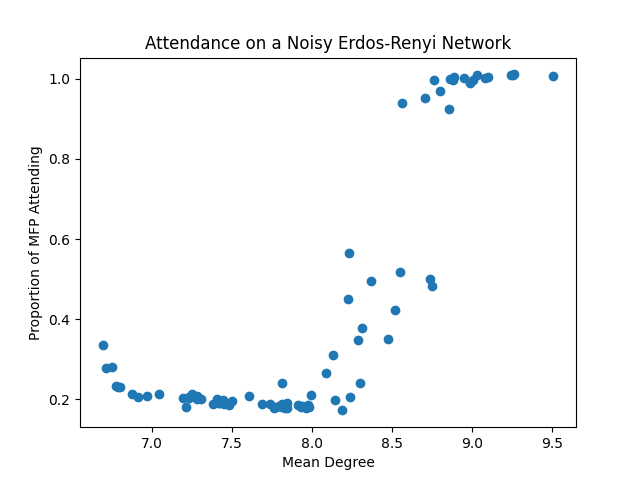
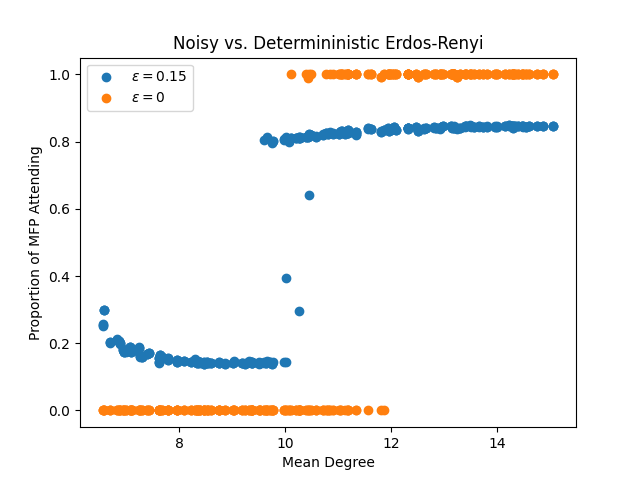
fix noise bug and track degrees

diff --git a/scripts/noise.py b/scripts/noise.py
@@ -7,37 +7,27 @@ from chung_lu import generate_chung_lu, truncated_power_law
 
 
 def simulate_with_noise(A, title, fname):
-    n_trials = 5
-    epsilons = np.arange(0, 0.2, 0.01)
-    epsilons = np.hstack([epsilons] * n_trials)
-    epsilons.sort()
+    epsilons = np.arange(0, 0.25, 0.01)
+    weekly = []
 
-    cnts_mean = []
-    cnts_std = []
     batch_size = 20
 
     for eps in epsilons:
         cnts = run_simulation_batch(A, n_iter, eps, M, minfriends, minbad, batch_size, rng)
         mfp = cnts.maximal_fixed_point.sum()
 
-        weekly = (cnts.sum(axis=0)[:batch_size]/(950*mfp))
-        cnts_std.append(weekly.std())
-        cnts_mean.append(weekly.mean())
-            
-    plt.figure()
-    plt.scatter(epsilons, cnts_mean)
-    plt.xlabel("$\epsilon$")
-    plt.ylabel("Proportion of MFP Attending")
-    plt.title(title.format("Mean"))
-    plt.savefig(fname.format("mean"))
-    
-    plt.figure()
-    plt.scatter(epsilons, cnts_std)
-    plt.xlabel("$\epsilon$")
-    plt.ylabel("Proportion of MFP Attending")
-    plt.title(title.format("STD"))
-    plt.savefig(fname.format("std"))
+        weekly.append((cnts.sum(axis=0)[:batch_size]/(950*mfp)))
 
+    w = np.vstack(weekly)
+    plt.figure()
+    plt.errorbar(epsilons, w.mean(axis=1), w.std(axis=1), fmt="P")
+    plt.xlabel("$\epsilon$")
+    plt.ylabel("Proportion of MFP Attending")
+    plt.title(title)
+    plt.tight_layout()
+    plt.savefig(fname)
+
+    
 if __name__ == "__main__":
     rng = np.random.default_rng(2357111)
 
@@ -49,39 +39,45 @@ if __name__ == "__main__":
     minfriends = 4
     minbad = 4
     n_trials = 5
-    batch_size = 30
+    batch_size = 3
 
     print("Simulating attendance vs. degree with noise")
     eps = 0.15
     N = size
 
-    probs = np.arange(0.02, 0.031, 0.0005)
+    probs = np.arange(0.02, 0.05, 0.001)
     probs = np.hstack([probs] * n_trials)
     probs.sort()
 
     attendance = []
     mean_deg = []
+    nonoise = []
 
     for p in probs:
         G = nx.gnp_random_graph(N, p, seed=rng.choice(1000))
         A = nx.convert_matrix.to_numpy_array(G)
-        mean_deg.append(A.sum(axis=0).mean())
-        cnts = run_simulation_batch(A, n_iter, eps, M, minfriends, minbad, batch_size, rng)
+        mean_deg.extend([A.sum(axis=0).mean()] * batch_size)
         
+        cnts = run_simulation_batch(A, n_iter, eps, M, minfriends, minbad, batch_size, rng)
         mfp = cnts.maximal_fixed_point.sum()
-
         weekly = (cnts.sum(axis=0)[:batch_size]/(950 * mfp))
-        attendance.append(weekly.mean())
+        attendance.extend(weekly.tolist())
+        
+        cnts = run_simulation_batch(A, n_iter, 0, M, minfriends, minbad, batch_size, rng)
+        mfp = cnts.maximal_fixed_point.sum()
+        weekly = (cnts.sum(axis=0)[:batch_size]/(950 * mfp))
+        nonoise.extend(weekly.tolist())
 
     attendance = np.array(attendance)
     mean_deg = np.array(mean_deg)
+    nonoise = np.array(nonoise)
 
-    mask = np.where(attendance < 2)[0]
-
-    plt.scatter(mean_deg[mask], attendance[mask])
+    plt.scatter(mean_deg, attendance)
+    plt.scatter(mean_deg, nonoise)
+    plt.legend(["$\epsilon=0.15$", "$\epsilon=0$"])
     plt.xlabel("Mean Degree")
     plt.ylabel("Proportion of MFP Attending")
-    plt.title("Attendance on a Noisy Erdos-Renyi Network")
+    plt.title("Noisy vs. Determininistic Erdos-Renyi")
     plt.savefig("images/mean_degree_v_noise.png")
 
     print("Now varying epsilon")
@@ -92,7 +88,7 @@ if __name__ == "__main__":
     A = generate_chung_lu(k, rng)
     print(f"Mean degree: {A.sum(axis=0).mean()}")
 
-    simulate_with_noise(A, "Chung-Lu Model: {} Weekly Attendance", "images/noisy_chung_lu_{}.png")
+    simulate_with_noise(A, "Noisy Chung-Lu Model", "images/noisy_chung_lu.png")
 
 
     # generate Erdos-Renyi random graph
@@ -105,7 +101,7 @@ if __name__ == "__main__":
     A = nx.convert_matrix.to_numpy_array(G)
     print(f"Mean degree: {A.sum(axis=0).mean()}")
     
-    simulate_with_noise(A, "Erods-Renyi: {} Weekly Attendance", "images/noisy_erdos_renyi_{}.png")
+    simulate_with_noise(A, "Noisy Erods-Renyi", "images/noisy_erdos_renyi.png")
     
     print("\nRunning simulation on stochastic block model.")
     sizes = [100, 100, 100]
@@ -114,4 +110,4 @@ if __name__ == "__main__":
     A = nx.convert_matrix.to_numpy_matrix(G)
     print(f"Mean degree: {A.sum(axis=0).mean()}")
 
-    simulate_with_noise(A, "SBM: {} Weekly Attendance", "images/noisy_sbm_{}.png")
+    simulate_with_noise(A, "Noisy SBM", "images/noisy_sbm.png")

diff --git a/tex/HW.tex b/tex/HW.tex
@@ -113,8 +113,8 @@ We can use numerical simulations to gain a stronger understanding of the steady 
 
 \begin{figure}[h!]
   \includegraphics[width=0.45\textwidth]{gnp_attendance.png}
-  \includegraphics[width=0.45\textwidth]{cm_attendance.png}
   \includegraphics[width=0.45\textwidth]{sbm_attendance.png}
+  \includegraphics[width=0.45\textwidth]{cm_attendance.png}
   \caption{Weekly attendance pattern on fixed random networks across multiple trials}
 \end{figure}
 
@@ -165,13 +165,12 @@ However, if an agent attends an extra time in either the universal telephone tag
 On these networks and other $\ell + 1$-regular graphs, universal nonattendance is the only stable fixed point.  The fact that attendance can stabilize to a nonzero level in simulations on random networks is only possible because some nodes have degree greater than $\ell + 1$.
 
 \section{Random Noise}
+
 \begin{figure}
-  \includegraphics[width=0.5\textwidth]{noisy_erdos_renyi_mean.png}
   \includegraphics[width=0.5\textwidth]{mean_degree_v_noise.png}
-  \caption{Behavior with noise on an Erdos-Renyi random graph, $\ell + 1 = 4$, varying $\epsilon$, $\langle k \rangle = 9.69$ (Top), and varying $\langle k \rangle$, $\epsilon = 0.15$ (Bottom)}
 \end{figure}
 
-In deterministic simulations on both regular and random networks, telephone tag phenomena are common and the MFP is often unreachable.  When each node has degree exactly $\ell + 1$, we have seen that the presence of randomness drives attendance down.  However, with sufficient density of edges, noise could allow otherwise unreachable nodes in the MFP to begin attending.
+When each node has degree exactly $\ell + 1$, we have seen that the presence of randomness drives attendance down.  However, with sufficient density of edges, noise could allow otherwise unreachable nodes in the MFP to begin attending.
 
 To test the impact of noise on random networks, we introduce a new parameter, $\epsilon$ to govern the noisiness of the system.  We define
 
@@ -188,7 +187,18 @@ and set
   \vec{y}(t + 1) = F'(\mathbf{A}\vec{y}(t))
 \end{equation}
 
-We find an interesting relationship between $\langle k \rangle$ and $\epsilon$.  When $\langle k \rangle$ is sufficiently large, figure 7 (top) shows that increasing $\epsilon$ increases attendance until the network is reliably close to the MFP.  However, figure 7 (bottom) shows that this effect only occurs after a phase transition occuring around $\langle k \rangle = 2 (\ell + 1)$.
+\begin{figure}
+  \includegraphics[width=0.5\textwidth]{noisy_erdos_renyi.png}
+  \includegraphics[width=0.5\textwidth]{noisy_sbm.png}
+  \includegraphics[width=0.5\textwidth]{noisy_chung_lu.png}
+  \caption{Impact of noise level $\epsilon$ on random graph models}
+\end{figure}
+
+Figure 7 shows the impact of $\epsilon$ on the same three random graph models from section 5.  On the Erdos-Renyi and SBM experiments, which have homogeneous degree distributions, increasing $\epsilon$ from 0 to around 0.14 increases weekly attendance and decreases the standard deviation between trials.  To make sense of this behavior, we note that nodes in the MFP may come in smaller pockets that are less densely connected to the rest of the network.  Adding noise makes it easier for agents within a pocket to begin attending.  If there is sufficient redudancy within the pocket, attendance can sustain itself even though agents may randomly nonattend.  
+
+As $\epsilon$ continues to grow, there is an abrupt transition after which the standard deviation is close to 0 and attendance begins decreasing.  More work is needed to come to a deeper understanding of why the transition is so abrupt, but at higher $\epsilon$ levels, it appears that all elements of the MFP are findable.  Those that have sufficient redundancy to withstand the random fluctuations end up attending, barring any that randomly fail to attend on each trial.
+
+On the Chung-Lu model with heterogeneous degree distribution, there is very little variation between trials.  We saw without any noise that this network already produced close to identical results across trials, so it is not surprising that we do not observe the variability we saw in the Erdos-Renyi model and SBM.  However, the attendance rate on this network decreases faster than could be explained solely by random non-attendance, indicating that nodes with less redundancy are failing to attend in the steady state. 
 
 \section{Discussion}
 

diff --git a/scripts/degree.py b/scripts/degree.py
@@ -1,0 +1,109 @@
+from matplotlib import pyplot as plt
+import networkx as nx
+import numpy as np
+
+from simulation import run_simulation_batch
+from chung_lu import generate_chung_lu, truncated_power_law
+
+
+if __name__=="__main__":
+    rng = np.random.default_rng(2357111)
+
+    n = 100
+    size=300
+    n_iter = 1000
+    eps = 0
+    M = 600
+    minfriends = 4
+    minbad = 4
+    batch_size = 10 
+
+    # plot impact of mean degree on Chung Lu Model
+    weekly = []
+    mean_deg = []
+
+    k_0 = 3
+    gammas = np.hstack(
+        [np.arange(2.0, 2.4, 0.025), 
+        np.arange(2.4,2.7,0.1)
+        ])
+
+    for gamma in gammas:
+        k = truncated_power_law(gamma, k_0, n, rng, size=size).astype(int)
+        k.sort()
+        A = generate_chung_lu(k, rng)
+        mean_deg.append([A.sum(axis=0).mean()])
+        
+        cnts = run_simulation_batch(A, n_iter, eps, M, minfriends, minbad, batch_size, rng)
+        weekly.append(cnts.sum(axis=0)[:batch_size]/950)
+
+    weekly = np.vstack(weekly)
+    mean_deg = np.array(mean_deg)
+
+    mask = np.where(weekly.mean(axis=1) < np.inf)[0]
+
+    plt.figure()
+    plt.errorbar(mean_deg[mask], weekly.mean(axis=1)[mask], weekly.std(axis=1)[mask], fmt="P")
+    plt.xlabel("Mean Degree")
+    plt.ylabel("Steady State Attendance")
+    plt.title("Chung Lu Model")
+    plt.savefig("chung_lu_degree.png")
+
+    # Erdos-Renyi Model
+    probs = np.arange(0.026, 0.05, 0.002)
+
+    attendance = []
+    mean_deg = []
+
+    for p in probs:
+        G = nx.gnp_random_graph(N, p, seed=rng.choice(1000))
+        A = nx.convert_matrix.to_numpy_array(G)
+        mean_deg.append([A.sum(axis=0).mean()])
+        
+        cnts = run_simulation_batch(A, n_iter, eps, M, minfriends, minbad, batch_size, rng)
+        weekly.append(cnts.sum(axis=0)[:batch_size]/950)
+
+    weekly = np.vstack(weekly)
+    mean_deg = np.array(mean_deg)
+
+    mask = np.where(weekly.mean(axis=1) < np.inf)[0]
+
+    plt.figure()
+    plt.errorbar(mean_deg[mask], weekly.mean(axis=1)[mask], weekly.std(axis=1)[mask], fmt="P")
+    plt.xlabel("Mean Degree")
+    plt.ylabel("Steady State Attendance")
+    plt.title("Erdos Renyi Model")
+    plt.savefig("erdos_renyi_degree.png")
+
+    # SBM
+    # baseline range used to construct the mixing matrix
+    probs = np.arange(0.032, 0.065, 0.002)
+
+    attendance = []
+    mean_deg = []
+    nonoise = []
+
+    sizes=[100,100,100]
+
+    for p in probs:
+        p_in = p*1.5
+        p_out = p_in / 9
+        p = [[p_in, p_out, p_out],[p_out, p_in, p_out], [p_out, p_out, p_in]]
+        G = nx.stochastic_block_model(sizes, p, seed=rng.choice(1000))
+        A = nx.convert_matrix.to_numpy_array(G)
+        mean_deg.append([A.sum(axis=0).mean()])
+        
+        cnts = run_simulation_batch(A, n_iter, eps, M, minfriends, minbad, batch_size, rng)
+        weekly.append(cnts.sum(axis=0)[:batch_size]/950)
+
+    weekly = np.vstack(weekly)
+    mean_deg = np.array(mean_deg)
+
+    mask = np.where(weekly.mean(axis=1) < np.inf)[0]
+
+    plt.figure()
+    plt.errorbar(mean_deg[mask], weekly.mean(axis=1)[mask], weekly.std(axis=1)[mask], fmt="P")
+    plt.xlabel("Mean Degree")
+    plt.ylabel("Steady State Attendance")
+    plt.title("SBM")
+    plt.savefig("sbm_degree.png")

diff --git a/scripts/simulation.py b/scripts/simulation.py
@@ -14,7 +14,12 @@ def run_simulation(X, A, n_iter, eps, M, minfriends, minbad, rng):
         else:
             X = (A.dot(X) > minbad)
 
+        # a few extras attend randomly
         X += rng.uniform(size=(len(A),1)) < eps
+        
+        # a few do not attend randomly
+        X = np.bitwise_and(X, rng.uniform(size=(len(A),1)) > eps)
+        
         Xs.append(X)
 
     return np.hstack(Xs)
